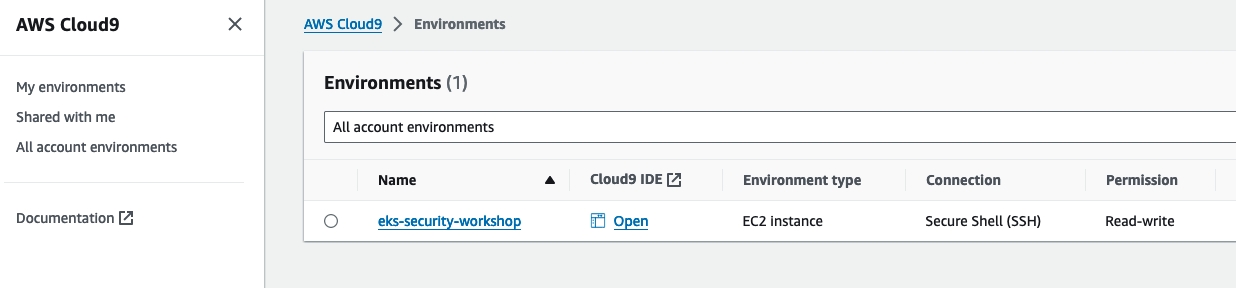
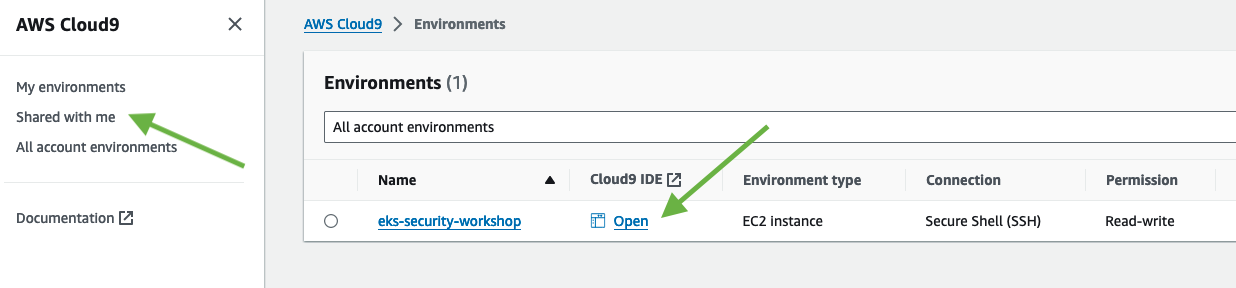
remove install steps already done in the bootsrrap script

diff --git a/content/1-create-workspace-environment/1-awsevent/2-setup-cloud9/index.en.md b/content/1-create-workspace-environment/1-awsevent/2-setup-cloud9/index.en.md
@@ -6,8 +6,9 @@ weight: 23
 Once you have logged into the AWS Management Console from your Workshop Studio, you will already have an Amazon EKS cluster and AWS Cloud9 environment. Your AWS Cloud9 workspace will also have all the required tools installed in it.
 
 - Navigate to [AWS Cloud9](https://console.aws.amazon.com/cloud9) in AWS Console.
-- Select **All account environments** from the drop-down menu.
+- Select **Shared with me** from the drop-down menu.
 - Click on **Open IDE** to open your AWS Cloud9 workspace.
+
 
 ![sign-in](/static/images/create-workspace/cloud9-IDE1.png)
 
@@ -23,31 +24,7 @@ Once you have logged into the AWS Management Console from your Workshop Studio, 
 - Your workspace should now look like this
   ![c9after](/static/images/create-workspace/cloud9-4.png)
 
-#### A. Install yq for yaml processing
-
-```bash
-echo 'yq() {
-  docker run --rm -i -v "${PWD}":/workdir mikefarah/yq "$@"
-}' | tee -a ~/.bashrc && source ~/.bashrc
-```
-
-#### Verify the binaries are in the path and executable
-
-```bash
-for command in kubectl jq envsubst aws
-  do
-    which $command &>/dev/null && echo "$command in path" || echo "$command NOT FOUND"
-  done
-```
-
-#### B. Confirm Amazon EKS Setup
-
-Set below environment variables
-
-```bash
-export ACCOUNT_ID=$(aws sts get-caller-identity --output text --query Account)
-export AWS_REGION=$(curl -s 169.254.169.254/latest/dynamic/instance-identity/document | jq -r '.region')
-```
+Since we created the environment for you all required tools are already installed.
 
 You can test access to your cluster by running the following command. The output will be a list of worker nodes
 
@@ -62,10 +39,4 @@ NAME                                           STATUS   ROLES    AGE   VERSION
 ip-10-254-128-55.us-west-2.compute.internal    Ready    <none>   88m   v1.28.1-eks-43840fb
 ip-10-254-180-171.us-west-2.compute.internal   Ready    <none>   88m   v1.28.1-eks-43840fb
 ip-10-254-217-72.us-west-2.compute.internal    Ready    <none>   88m   v1.28.1-eks-43840fb
-```
-
-#### C. Install [k9s](https://k9scli.io/)
-
-```bash
-curl -sS https://webinstall.dev/k9s | bash
 ```
